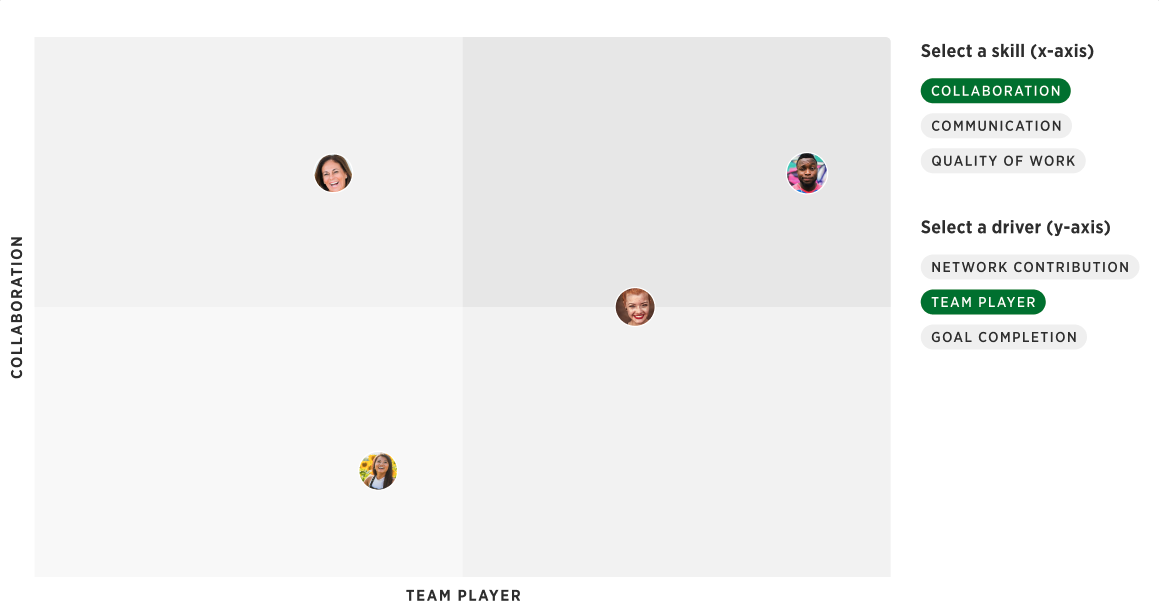
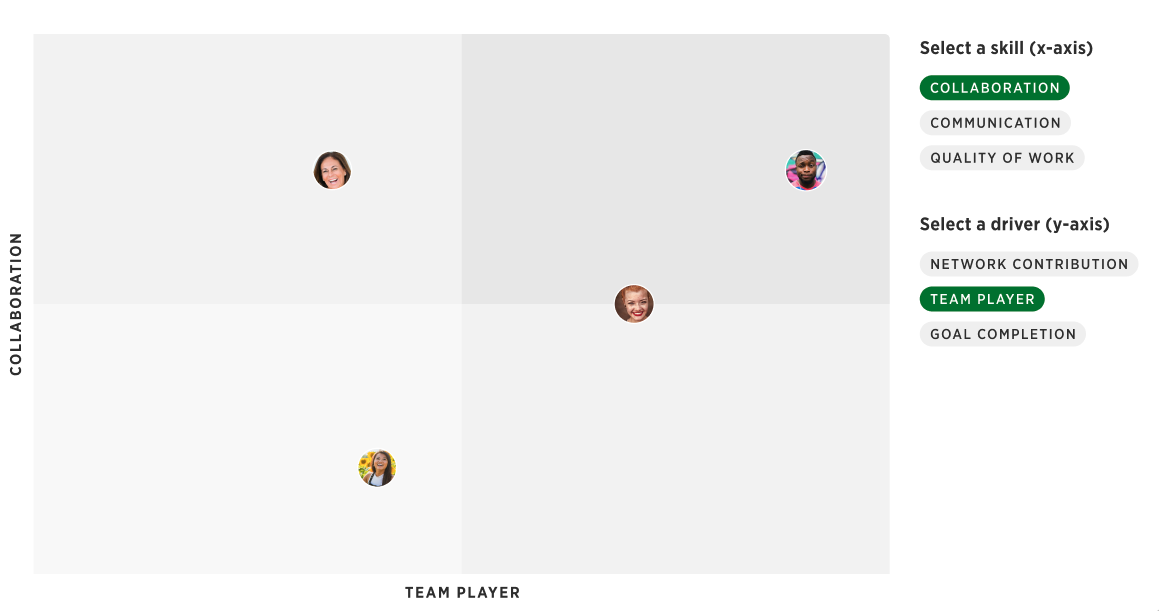
skills driver img

diff --git a/web/src/components/AdminDashboardChart.tsx b/web/src/components/AdminDashboardChart.tsx
@@ -1,14 +1,15 @@
 import React from "react";
-import { CardMedia } from "@material-ui/core";
 import { Card } from "@kazoohr/confetti";
 
 const AdminDashboardChart: React.FC = () => {
   return (
-    <Card className="" withBorder noShadow>
-      <CardMedia
-        style={{ width: 700, height: 500 }}
-        image={require("web/public/skills-driver.png")}
-      />
+    <Card 
+      className="" 
+      withBorder 
+      noShadow
+      style={{ margin: 0, padding: 0 }}
+    >
+      <img src="./skills-driver.png" style={{ width: '900px', height: 'auto'}}/>
     </Card>
   );
 };
